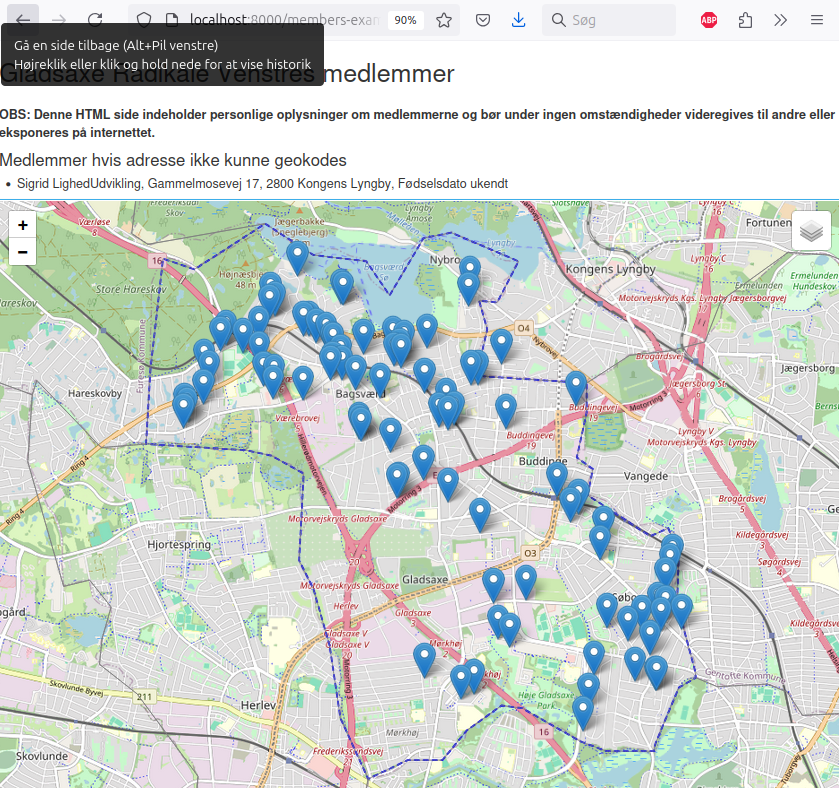
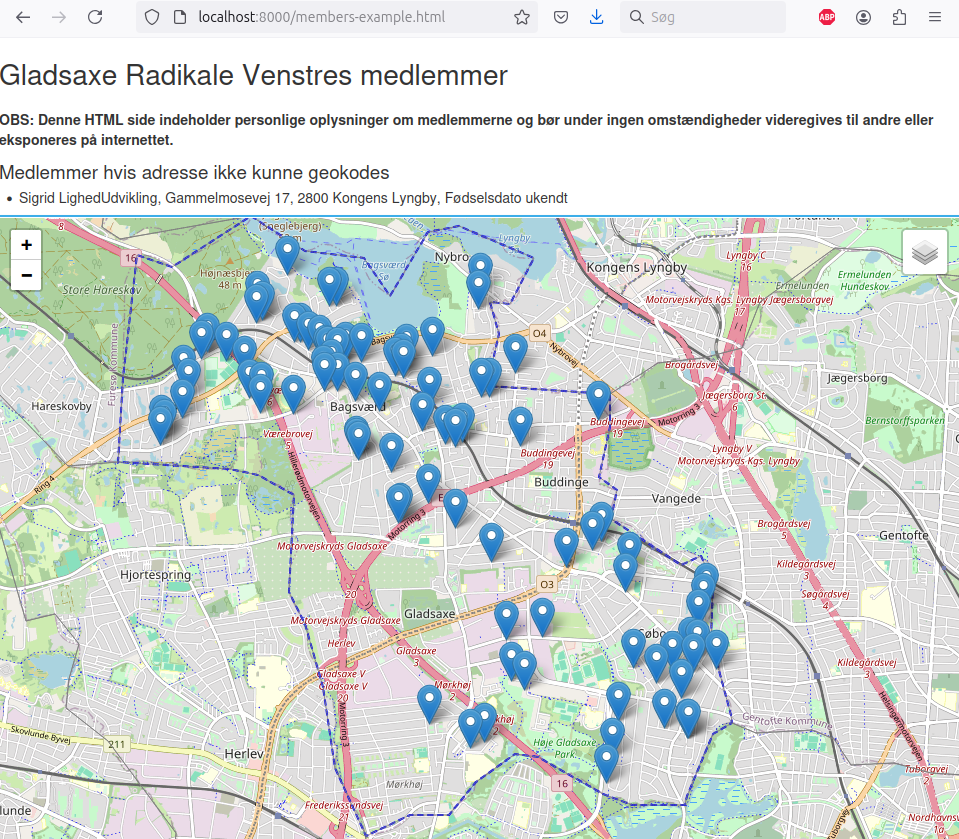
Minor changes to README. Added .gitignore. Fix screenshot

diff --git a/README.md b/README.md
@@ -38,7 +38,7 @@ Det kan f.eks. se sådan her ud:
 
 ![](images/members-example.png)
 
-Hvis du er på GitHub, burde du kunne se et ["live" eksempel](members-example.html).
+Der er eksempel på uddata [uddata](members-example.html) her.
 
 Scriptet afhænger af at man har medlemsinformationen downloadet som Excel ark fra mit.radikale.dk. I filen [members-example.xlsx](members-example.xlsx) ligger et eksempel man kan bruge, som er baseret på syntetiske data fra Gladsaxe kommune.
 
@@ -47,7 +47,7 @@ Man kan køre scriptet på eksempel data, for at se hvordan scriptet fungerer, m
 ./visualize-members.py members-example.xlsx members-example.html
 ```
 
-(Se nedenfor, for at se hvordan man viser den HTML side der blevet dannet).
+Bemærk at scriptet er længe om at køre første gang, fordi den skal geokode adresserne. Det bliver "cachet", så det er hurtigere næste gang. Se nedenfor, for at se hvordan man viser den HTML side der blevet dannet.
 
 ### Workflow
 
@@ -69,7 +69,7 @@ Når man har filen `members.xlsx` så kan oprette sin HTML side f.eks. sådan he
 
 Scriptet er lidt langsomt den første gang, fordi det slår lat/long op for alle medlemmer i filen. Og for ikke at overbelaste den service der bruges til dette, holdes der en kort pause imellem hvert opslag. Lat long på kendte adresser gemmes dog imellem hver kørsel i filen `.geocache`, så det går betydeligt hurtigere næste gang.
 
-Desuden hentes også information kommunegrænser, der gemmes i filen `.municipalities.json`. Hvis kommunegrænserne en dag ændrer sig, bør denne fil slettes.
+Desuden hentes også information om kommunegrænser, der gemmes i filen `.municipalities.json`. Hvis kommunegrænserne en dag ændrer sig, bør denne fil slettes, så den kan blive hentet igen.
 
 Bemærk, at der lejlighedsvist er adresser der ikke kan slås op. Information om medlemmer med adresser der ikke kan slås op, vil blive listet på HTML siden.
 
